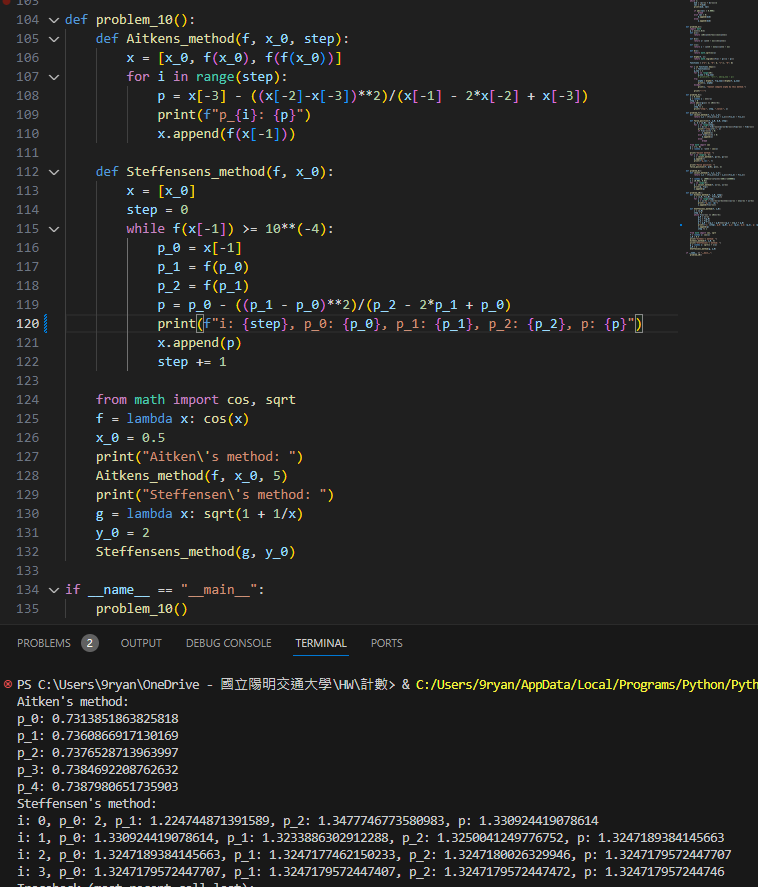
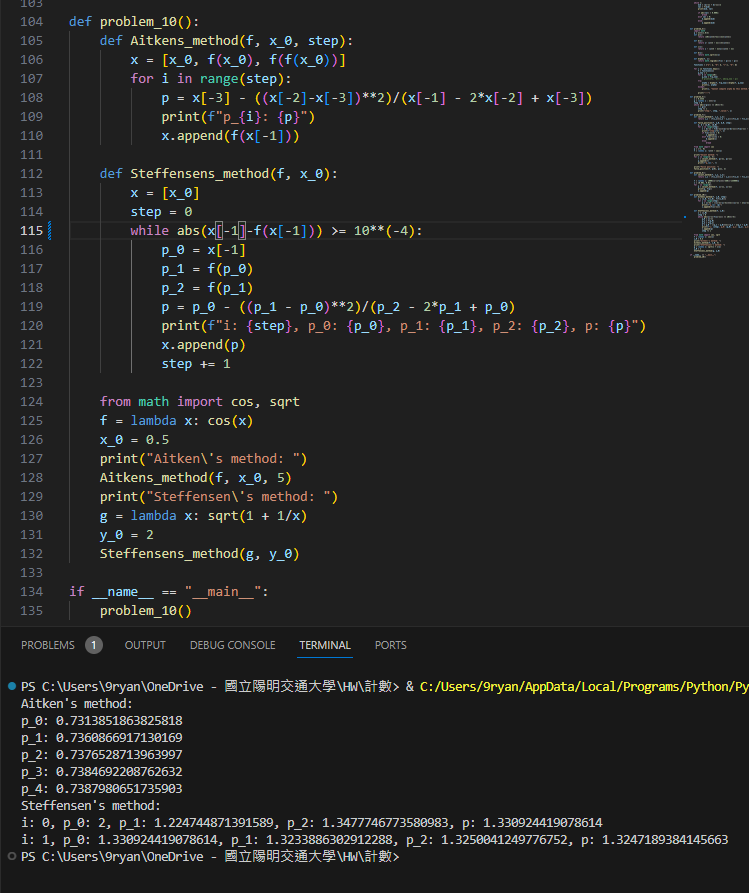
Mar 27, 2024, 5:45 PM

diff --git a/HW2/HW2.tex b/HW2/HW2.tex
@@ -156,8 +156,6 @@
                 \hline
                 0 & 2 & 1.22474487139 & 1.34777467735 & 1.33092441907\\
                 1 & 1.3309244190 & 1.32338863029 & 1.32500412497 & 1.32471893841\\
-                2 & 1.3247189384 & 1.32471774621 & 1.32471800263 & 1.32471795724\\
-                3 & 1.3247179572 & 1.32471795724 & 1.32471795724 & 1.32471795724\\
                 \hline
             \end{tabular}
         \end{center}

diff --git a/HW2/HW2.py b/HW2/HW2.py
@@ -112,7 +112,7 @@ def problem_10():
     def Steffensens_method(f, x_0):
         x = [x_0]
         step = 0
-        while f(x[-1]) >= 10**(-4):
+        while abs(x[-1]-f(x[-1])) >= 10**(-4):
             p_0 = x[-1]
             p_1 = f(p_0)
             p_2 = f(p_1)
